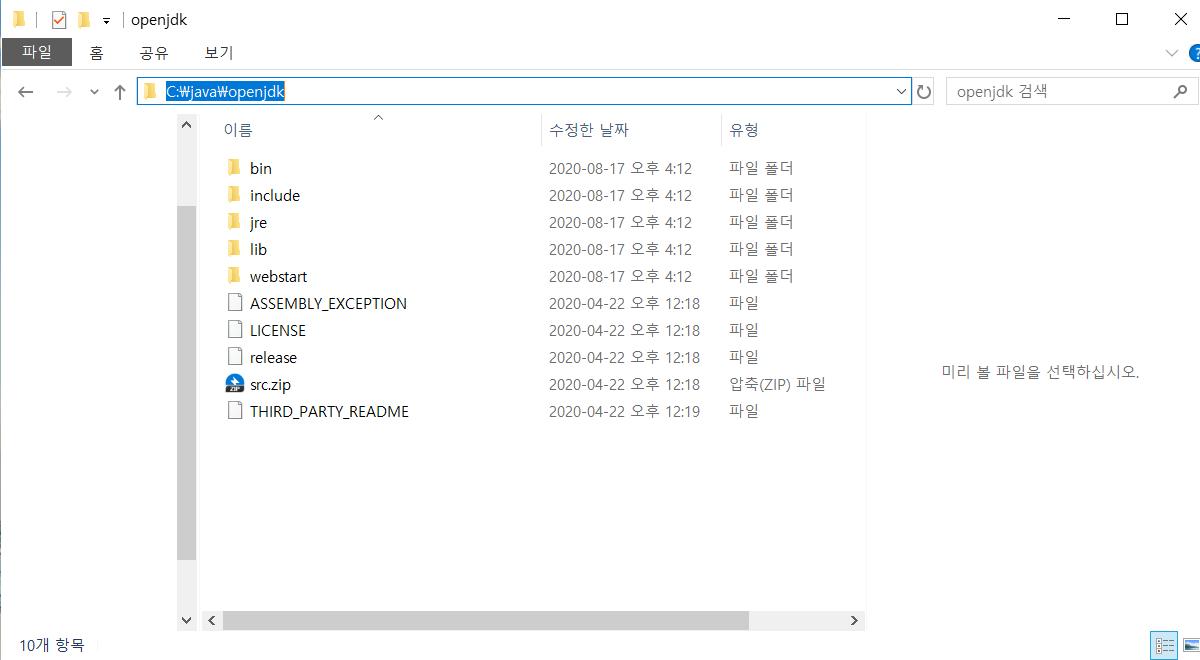
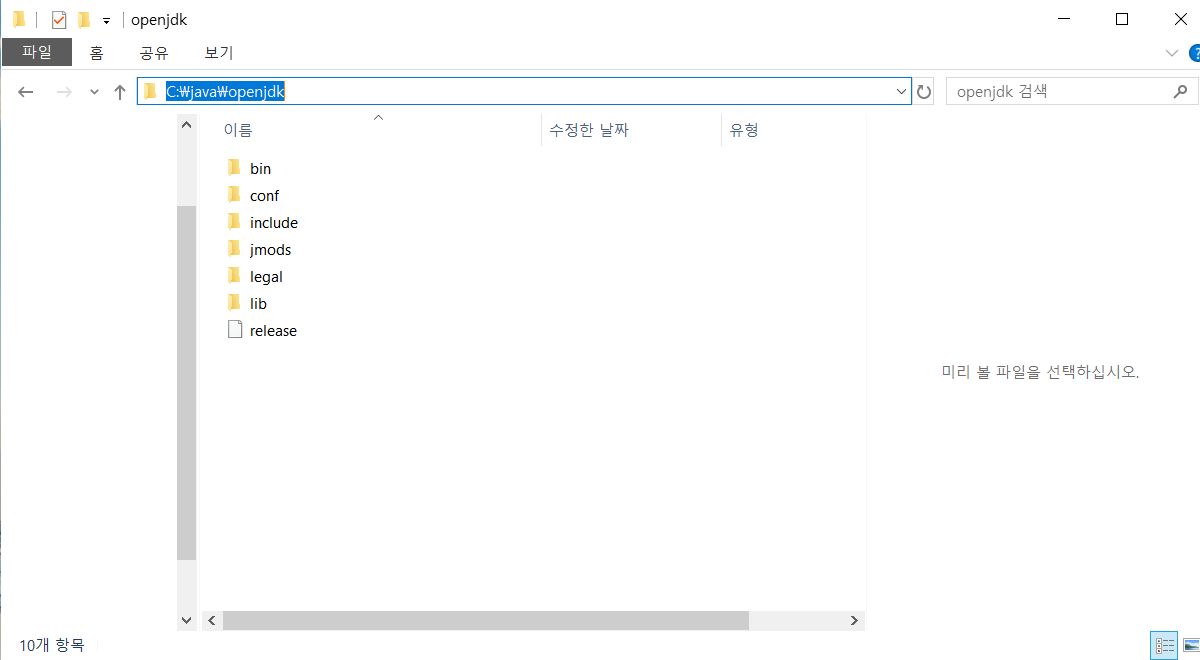
- Upgrade to jdk 11 and openjfx 11 - plugin for fat jar

diff --git a/dluid-gui/src/main/java/org/kokzoz/dluid/NativeMain.java b/dluid-gui/src/main/java/org/kokzoz/dluid/NativeMain.java
@@ -1,0 +1,7 @@
+package org.kokzoz.dluid;
+
+public class NativeMain {
+    public static void main(String[] args) {
+        Main.main(args);
+    }
+}

diff --git a/document/java-installation.md b/document/java-installation.md
@@ -19,8 +19,8 @@ You might be wondering that you heard you need to install java, but why you shou
 Jdk is a abbreviation of `java development kit` which is necessary program for developing java application. 
 It's okay to understand `jdk = java`. 
 If you just want to using `Dluid` only, you can install jre (`java runtime environment`) instead of jdk.  
-    - You can download jdk 8 (= 1.8) at here. [Open jdk github](https://github.com/ojdkbuild/ojdkbuild)   
-    - Or just download by this link. [Open jdk 8](https://github.com/ojdkbuild/ojdkbuild/releases/download/java-1.8.0-openjdk-1.8.0.252-2.b09/java-1.8.0-openjdk-1.8.0.252-2.b09.ojdkbuild.windows.x86_64.zip)
+    - You can download jdk 11 at here. [Open jdk github](https://github.com/ojdkbuild/ojdkbuild)   
+    - Or just download by this link. [Open jdk 11](https://github.com/ojdkbuild/ojdkbuild/releases/download/java-11-openjdk-11.0.7.10-1/java-11-openjdk-11.0.7.10-1.windows.ojdkbuild.x86_64.zip)
 1. Unzip jdk file and move contents to directory `C:\java\openjdk` 
 1. For example  
   ![java 00](./resources/java/java-00.png)
@@ -58,9 +58,9 @@ brew tap AdoptOpenJDK/openjdk
 
 Paste above in a macOS terminal or linux shell prompt.
 ```
-3. Install OpenJDK 8
+3. Install OpenJDK 11
 ```
-brew cask install adoptopenjdk8
+brew cask install adoptopenjdk11
 
 Paste above in a macOS terminal or linux shell prompt.
 ```
